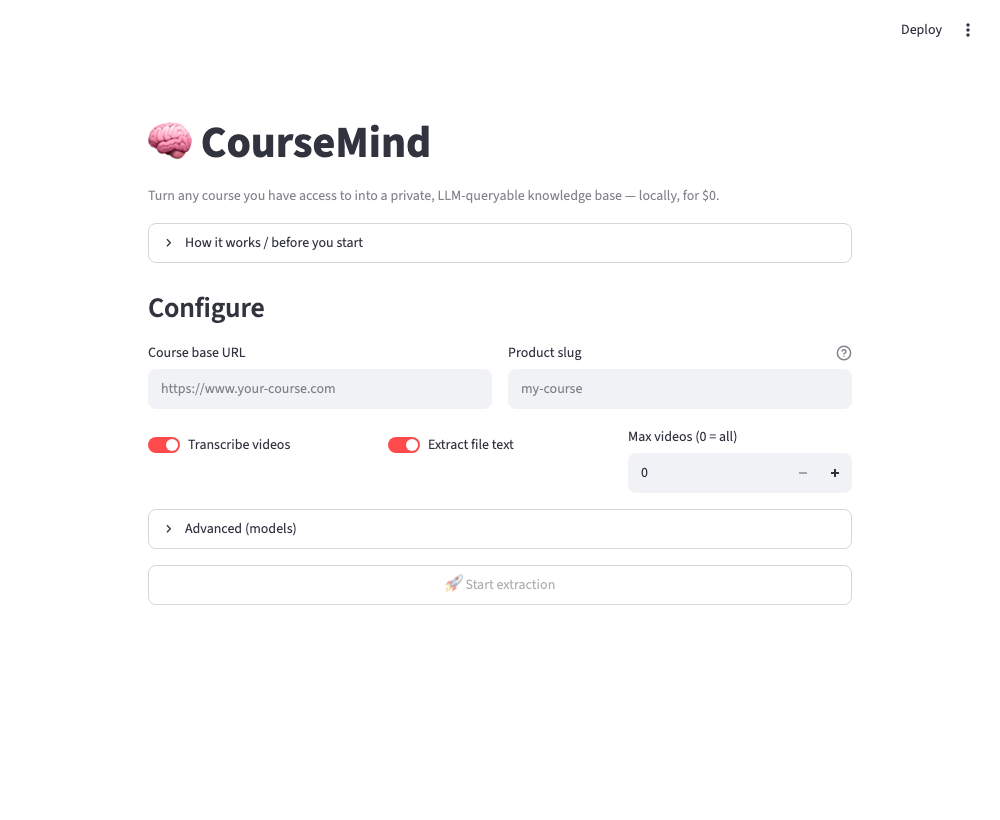
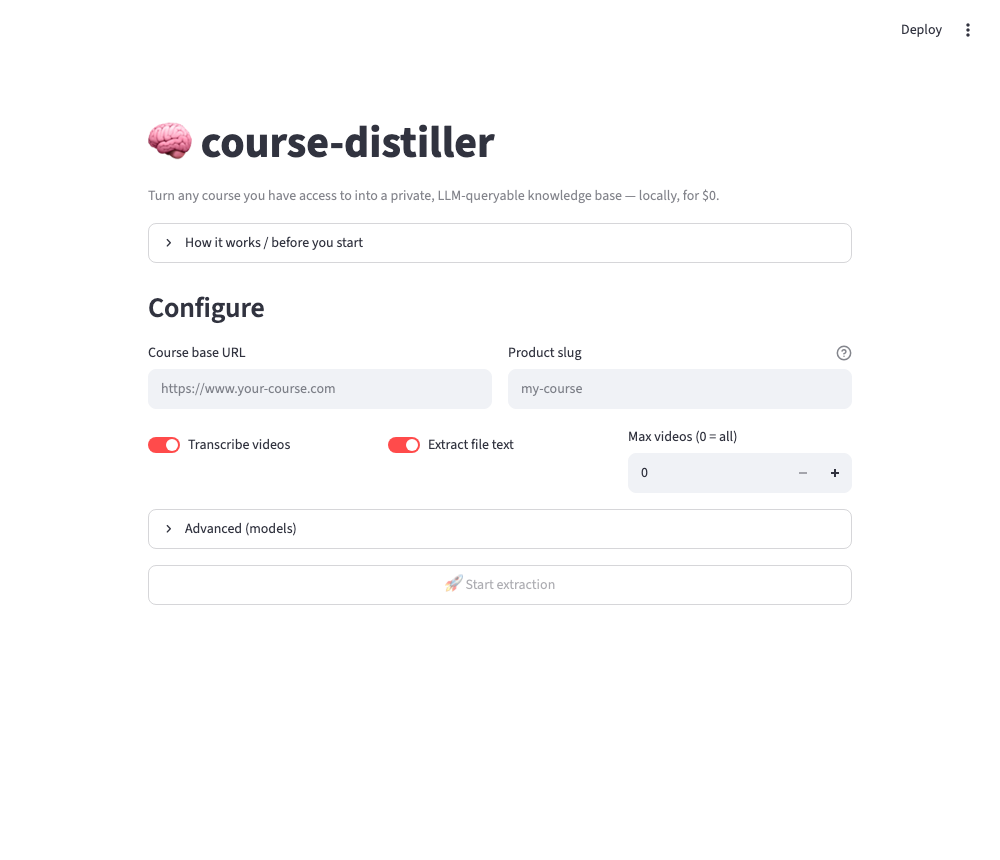
Address review feedback: descriptive name + README depth
- Revert product/package name to descriptive `course-distiller` (search-friendly,
  lowercase-hyphenated, matches the distill step)
- README: move Kajabi/Wistia scope note to the top; add UI walkthrough (2 screenshots),
  time & hardware expectations (Whisper as the long pole), troubleshooting table
- Add a worked example under examples/ (sample config, expected output tree, real lesson)

diff --git a/app.py b/app.py
@@ -1,4 +1,4 @@
-"""CourseMind — local web UI (Streamlit).
+"""course-distiller — local web UI (Streamlit).
 
 Run:  streamlit run app.py
 Everything happens on your machine. A browser window opens for YOU to log in to
@@ -25,8 +25,8 @@ PHASES = [
     ("extract", "🔍 Extract file text"), ("compile", "🧩 Compile corpus"), ("bundle", "📦 Bundle"),
 ]
 
-st.set_page_config(page_title="CourseMind", page_icon="🧠", layout="centered")
-st.title("🧠 CourseMind")
+st.set_page_config(page_title="course-distiller", page_icon="🧠", layout="centered")
+st.title("🧠 course-distiller")
 st.caption("Turn any course you have access to into a private, LLM-queryable knowledge base — locally, for $0.")
 
 with st.expander("How it works / before you start", expanded=False):
@@ -68,7 +68,7 @@ if start:
     yaml.safe_dump(cfg, open(CONFIG, "w"))
     open(PROGRESS, "w").close()  # truncate
     st.session_state["proc"] = subprocess.Popen(
-        [sys.executable, "-m", "coursemind.run", "--config", CONFIG, "--progress-file", PROGRESS],
+        [sys.executable, "-m", "coursedistiller.run", "--config", CONFIG, "--progress-file", PROGRESS],
         cwd=ROOT)
     st.session_state["running"] = True
 

diff --git a/coursedistiller/run.py b/coursedistiller/run.py
@@ -7,7 +7,7 @@ from . import pipeline
 
 
 def main():
-    ap = argparse.ArgumentParser(description="CourseMind: turn a course you own into a knowledge base")
+    ap = argparse.ArgumentParser(description="course-distiller: turn a course you own into a knowledge base")
     ap.add_argument("--config", default="config.yaml")
     ap.add_argument("--progress-file", default=None)
     args = ap.parse_args()

diff --git a/coursedistiller/pipeline.py b/coursedistiller/pipeline.py
@@ -7,7 +7,7 @@ from . import bundle as _bundle
 
 
 def run(cfg, progress=lambda **k: None):
-    progress(phase="start", msg="Starting CourseMind")
+    progress(phase="start", msg="Starting course-distiller")
     _crawl.crawl(cfg, progress)
     if cfg.video["enabled"]:
         _transcribe.transcribe(cfg, progress)

diff --git a/README.md b/README.md
@@ -1,30 +1,34 @@
-<h1 align="center">🧠 CourseMind</h1>
+<h1 align="center">🧠 course-distiller</h1>
 
 <p align="center">
-  <b>Turn any online course you have access to into a private, LLM-queryable knowledge base — locally, for $0.</b>
+  <b>Turn a course you have access to into a private, LLM-queryable knowledge base — locally, for $0.</b>
 </p>
 
 <p align="center">
   <img alt="python" src="https://img.shields.io/badge/python-3.9+-blue">
   <img alt="license" src="https://img.shields.io/badge/license-MIT-green">
   <img alt="local-first" src="https://img.shields.io/badge/local--first-%240%20API-brightgreen">
+  <img alt="platform" src="https://img.shields.io/badge/platform-Kajabi%20%2B%20Wistia-orange">
 </p>
+
+> **Scope:** course-distiller is built for **Kajabi-style courses** (`/products/…/categories/…/posts/…`)
+> with **Wistia** video. Other platforms work once someone adds an adapter (see
+> [Architecture → Extending](docs/ARCHITECTURE.md)). Know this before you install the dependencies.
 
 ---
 
-<p align="center"><img src="docs/ui.png" alt="CourseMind web UI" width="720"></p>
+<p align="center"><img src="docs/ui.png" alt="course-distiller web UI" width="720"></p>
 
 ## The problem
 
 Great courses are locked inside video players and PDFs. You can't search them, can't ask them
-questions, and re-watching a 90-minute recording to find one framework is painful. Meanwhile,
-tools like NotebookLM are brilliant at answering questions over text — if only you *had* the text.
+questions, and re-watching a 90-minute recording to find one framework is painful. Tools like
+NotebookLM answer questions over text brilliantly — *if only you had the text.*
 
-**CourseMind** bridges that gap. Point it at a course you're enrolled in, and it produces a
-clean, structured markdown knowledge base — lesson text, **distilled video transcripts**, **extracted
-PDF/slide content**, and every link/contact/form — ready to drop into NotebookLM or query with any LLM.
-
-Everything runs on your own machine. No API bills, no uploading your paid content to a third party.
+**course-distiller** produces exactly that: a clean markdown knowledge base — lesson text,
+**distilled video transcripts**, **extracted PDF/slide content**, and every link/contact/form —
+ready for NotebookLM or any LLM. It runs entirely on your machine. No API bills, no uploading your
+paid content to a third party.
 
 ## What you get
 
@@ -36,8 +40,25 @@ output/
 └── PROTOCOLS.md          # auto-aggregated contacts, forms, and resource links
 ```
 
-Each lesson file contains the portal text, a **distilled transcript** of its video, the **extracted text
-of its attachments**, and all resource links — verbatim.
+Each lesson file contains the portal text, a **distilled transcript** of its video, the **extracted
+text of its attachments**, and all resource links — verbatim.
+
+## Using it (web UI walkthrough)
+
+```bash
+streamlit run app.py
+```
+
+1. **Configure** — paste your course's base URL and product slug, toggle video/attachments, pick models.
+
+   <img src="docs/ui-filled.png" alt="filled-in config" width="620">
+
+2. **Start** — a browser window opens. **You** log in to your course there (the tool never sees your
+   password). It detects the login and begins.
+3. **Watch** — a live dashboard shows each phase: 🗺 map → 📄 harvest → 🎬 transcribe → 🔍 extract → 📦 bundle.
+4. **Download** — when it finishes, grab the NotebookLM bundles as a zip and drop them into one notebook.
+
+Prefer the terminal? `cp config.example.yaml config.yaml`, edit it, then `python -m coursedistiller.run`.
 
 ## How it works
 
@@ -54,72 +75,82 @@ flowchart LR
     G --> H[📦 NotebookLM<br/>bundles]
 ```
 
-1. **Crawl** — opens *your* browser so *you* log in (the tool never sees your password), then walks the
-   course graph with authenticated `fetch()`, following in-lesson links to catch branching content.
-2. **Transcribe** — pulls each video's audio with `yt-dlp` and transcribes it locally with Whisper
-   (Apple-Silicon `mlx-whisper`, or `openai-whisper` elsewhere).
-3. **Distill** — a local LLM (via Ollama) condenses each transcript into tight study notes, keeping
-   links/resources verbatim. Full raw transcripts are retained on disk.
-4. **Extract** — downloads attachments and pulls their text (PDF, OCR fallback, xlsx, pptx, docx).
-5. **Compile & bundle** — assembles everything into per-lesson markdown and per-section NotebookLM bundles.
+See [docs/ARCHITECTURE.md](docs/ARCHITECTURE.md) for the design decisions (graph-closure crawl,
+resumability, why the models take turns).
 
-## Quickstart
+## Install
 
-**Prerequisites** (one-time): [Python 3.9+], [ffmpeg], [Ollama] (for distillation),
-`poppler` + `tesseract` (for PDF/OCR).
+**Prerequisites** (one-time):
 ```bash
-brew install ffmpeg poppler tesseract        # macOS
+brew install ffmpeg poppler tesseract        # macOS (Linux: apt install ffmpeg poppler-utils tesseract-ocr)
+# Ollama for local distillation — https://ollama.com
 ollama pull gpt-oss:20b                       # or any local model you like
 ```
-
-**Install:**
+**The tool:**
 ```bash
-git clone https://github.com/M19K/CourseMind && cd CourseMind
+git clone https://github.com/M19K/course-distiller && cd course-distiller
 python -m venv .venv && source .venv/bin/activate
 pip install -r requirements.txt
 playwright install chromium
 ```
 
-**Run — the web UI (recommended):**
-```bash
-streamlit run app.py
-```
-Enter your course URL, hit **Start**, log in when the browser opens, and watch it work. Download the
-result when it's done.
+## ⏱ Time & hardware expectations
 
-**Run — the CLI:**
-```bash
-cp config.example.yaml config.yaml   # then edit it
-python -m coursemind.run --config config.yaml
-```
+**Whisper (video transcription) is the long pole.** Everything else — crawling, parsing, downloading,
+distilling — is minutes. Transcription time depends almost entirely on your hardware:
+
+| Machine | Whisper backend | ~Speed | A 40-lesson course (~7 hrs of video) |
+|---|---|---|---|
+| **Apple Silicon (M-series)** | `mlx-whisper` | ~10–13× realtime | **~40–60 min** |
+| Intel / AMD, no GPU | `openai-whisper` (CPU) | ~0.5–1× realtime | **several hours** |
+| NVIDIA GPU | `openai-whisper` (CUDA) | ~5–10× realtime | ~1–1.5 hr |
+
+- **Text only** (toggle video off): the whole course in **a couple of minutes**.
+- **RAM:** a 20B distill model needs ~16 GB. On a tight machine, use a smaller Ollama model, or set
+  `distill.enabled: false` (you'll get raw transcripts instead of notes).
+- **Tip:** use `video.max_videos` to transcribe a handful first and sanity-check output before a full run.
+
+## 📂 Worked example
+
+See [`examples/`](examples/) for a complete walkthrough — a sample `config.yaml`, the command to run,
+and the exact output tree you should expect (with a real compiled lesson).
 
 ## Configuration
 
-Everything lives in `config.yaml` (see `config.example.yaml`): the course URL, whether to transcribe
-video, which Whisper/LLM models to use, politeness pacing, OCR, and more.
+Everything lives in `config.yaml` (copy [`config.example.yaml`](config.example.yaml)): course URL,
+whether to transcribe video, which Whisper/LLM models, politeness pacing, OCR, and more.
+
+## 🩺 Troubleshooting
+
+| Symptom | Fix |
+|---|---|
+| **"Login not detected within timeout"** | Finish logging in inside the opened browser window; it polls for lesson content. Slow to log in? Increase the timeout in `crawl.py`. |
+| **Distillation empty / `Connection refused`** | Ollama isn't running: `ollama serve`, then `ollama pull <model>`. Or set `distill.enabled: false`. |
+| **A video won't download** | It may not be Wistia-hosted. Update `yt-dlp` (`pip install -U yt-dlp`); check the lesson's embed. |
+| **`pdftotext` / `tesseract: not found`** | Install poppler + tesseract (see Prerequisites). |
+| **`playwright: executable doesn't exist`** | Run `playwright install chromium`. |
+| **Whisper very slow or out-of-memory** | Use a smaller model (`small`, `distil-large-v3`), close other apps, or turn video off. |
 
 ## ⚖ Ethical & legal use
 
-CourseMind is a **personal-productivity tool for content you are legitimately entitled to access** —
-like `yt-dlp` or a read-later app. It automates *your own* logged-in session to make *your own* learning
-more efficient.
+course-distiller is a **personal-productivity tool for content you are legitimately entitled to
+access** — like `yt-dlp` or a read-later app. It automates *your own* logged-in session.
 
-- **Do not** redistribute extracted content. Course material belongs to its creator; the `.gitignore`
-  is configured so no downloaded content is ever committed.
-- **Do not** use it to circumvent access controls or scrape content you haven't paid for.
+- **Do not** redistribute extracted content — it belongs to its creator. The `.gitignore` ensures no
+  downloaded content is ever committed.
+- **Do not** use it to circumvent access controls or access content you haven't paid for.
 - Respect each platform's Terms of Service. You are responsible for how you use this tool.
 
 ## Limitations
 
-- Tuned for **Kajabi-style** courses (`/products/…/categories/…/posts/…`) with Wistia video. Other
-  platforms need an adapter.
 - Video transcripts in the corpus are **distilled** (summarized); full verbatim transcripts are kept
-  on disk separately.
-- Image-only content (diagrams, visual portfolios) isn't OCR'd inside lessons.
+  on disk separately (`work/transcripts/`).
+- **Image-only content** (diagrams, visual portfolios) isn't OCR'd inside lessons.
+- Platform support is Kajabi/Wistia today (see the scope note up top).
 
 ## Learn more
 
-- 📐 [Architecture](docs/ARCHITECTURE.md) — how the pipeline is put together and why
+- 📐 [Architecture](docs/ARCHITECTURE.md) — how the pipeline is built and why
 - 📝 [Product case study](docs/CASE-STUDY.md) — the problem, the decisions, the trade-offs
 
 ## License

diff --git a/examples/README.md b/examples/README.md
@@ -1,0 +1,64 @@
+# Worked example
+
+A concrete run, start to finish — so you know what to expect before pointing it at a real course.
+
+## 1. Configure
+
+Copy the sample config and edit the two `site` values for the course *you* have access to:
+
+```bash
+cp examples/demo-config.yaml config.yaml
+# edit config.yaml: site.base_url and site.product_slug
+```
+
+Find those two values from any lesson URL of your course:
+
+```
+https://learn.example-academy.com / products / product-management-101 / categories / 4408 / posts / 91422
+└────────── base_url ───────────┘            └──── product_slug ────┘
+```
+
+Notice `max_videos: 3` in the sample — a good habit: transcribe a few videos first, confirm the output
+looks right, then set it to `0` for the full run.
+
+## 2. Run
+
+```bash
+python -m coursedistiller.run --config config.yaml
+# ...or the web UI: streamlit run app.py
+```
+
+A browser opens — log in to your course, and it takes over from there. You'll see progress like:
+
+```
+{"phase": "map", "done": 12, "total": 34, "msg": "212 posts found"}
+{"phase": "harvest", "done": 180, "total": 340, "msg": "180 lessons"}
+{"phase": "transcribe", "done": 3, "total": 3, "msg": "3 videos"}
+{"phase": "extract", "done": 18, "total": 18, "msg": "16 extracted"}
+{"phase": "done", "msg": "Done. Knowledge base ready in ./output"}
+```
+
+## 3. Output you should expect
+
+```
+output/
+├── _INDEX.md                         # clickable map of every lesson
+├── PROTOCOLS.md                      # all contacts, forms, links aggregated
+├── lessons/
+│   ├── module-1-getting-started/
+│   │   ├── 001-welcome.md
+│   │   └── 002-the-framework.md
+│   └── module-2-discovery/
+│       └── ...
+└── notebooklm/                       # ← upload THIS folder to one NotebookLM notebook
+    ├── 00 - Program Protocols & Navigation.md
+    ├── module-1-getting-started.md
+    └── module-2-discovery.md
+```
+
+Drop the whole `notebooklm/` folder into a single NotebookLM notebook and start asking questions.
+
+## 4. What a compiled lesson looks like
+
+See [`sample-lesson.md`](sample-lesson.md) for a representative output — one lesson with its portal
+text, distilled video transcript, extracted attachment text, and verbatim links all in one file.

diff --git a/examples/sample-lesson.md b/examples/sample-lesson.md
@@ -1,0 +1,57 @@
+---
+title: "2.2 Customer Discovery — Interviews Before Solutions"
+section: "Module 2 - Discovery"
+pid: 91455
+url: https://learn.example-academy.com/products/product-management-101/categories/4409/posts/91455
+has_video: true
+attachments: 1
+---
+
+# 2.2 Customer Discovery — Interviews Before Solutions
+
+Before you build anything, talk to users. This lesson covers how to run discovery interviews and
+how many you actually need. Submit your interview notes in the intake form below.
+
+## Video
+
+### Transcript (distilled)
+
+# Customer Discovery — Key Notes
+
+**The core principle**
+- Fall in love with the problem, not your solution. Interviews come *before* ideas.
+
+**How to run an interview**
+- 30–60 minutes; a pre-written question sequence, then follow "why?" on the fly.
+- Ask about past behavior, not hypotheticals ("Tell me about the last time you…").
+- Minimum **20 interviews** before you trust a pattern; incubators push for 100+.
+
+**Then quantify**
+- Surveys come *after* qualitative interviews — thousands of responses to validate, not discover.
+- Surveys can't ask "why"; that's what interviews are for.
+
+**Example**
+- *Blue Apron* shadowed a busy parent, discovered the real value prop was pre-portioned ingredients,
+  not recipes.
+
+## Resource Links
+- [Interview intake form](https://forms.gle/exampleFormId)
+- [The Mom Test (book)](https://www.momtestbook.com)
+
+## Attachments
+- **customer_interview_template.pdf** — `https://learn.example-academy.com/courses/downloads/771/customer_interview_template.pdf`
+
+### Extracted text — customer_interview_template.pdf
+
+# customer_interview_template.pdf
+
+CUSTOMER INTERVIEW TEMPLATE
+1. Warm-up: Tell me about your role and a typical day.
+2. Problem: Walk me through the last time you [did the task].
+3. Current solution: What do you use today? What's frustrating about it?
+4. Impact: How much time/money does this cost you?
+5. Wrap: Who else should I talk to?
+
+## Related lessons
+- 2.1 Framing the Problem
+- 2.3 Synthesizing Interview Insights
